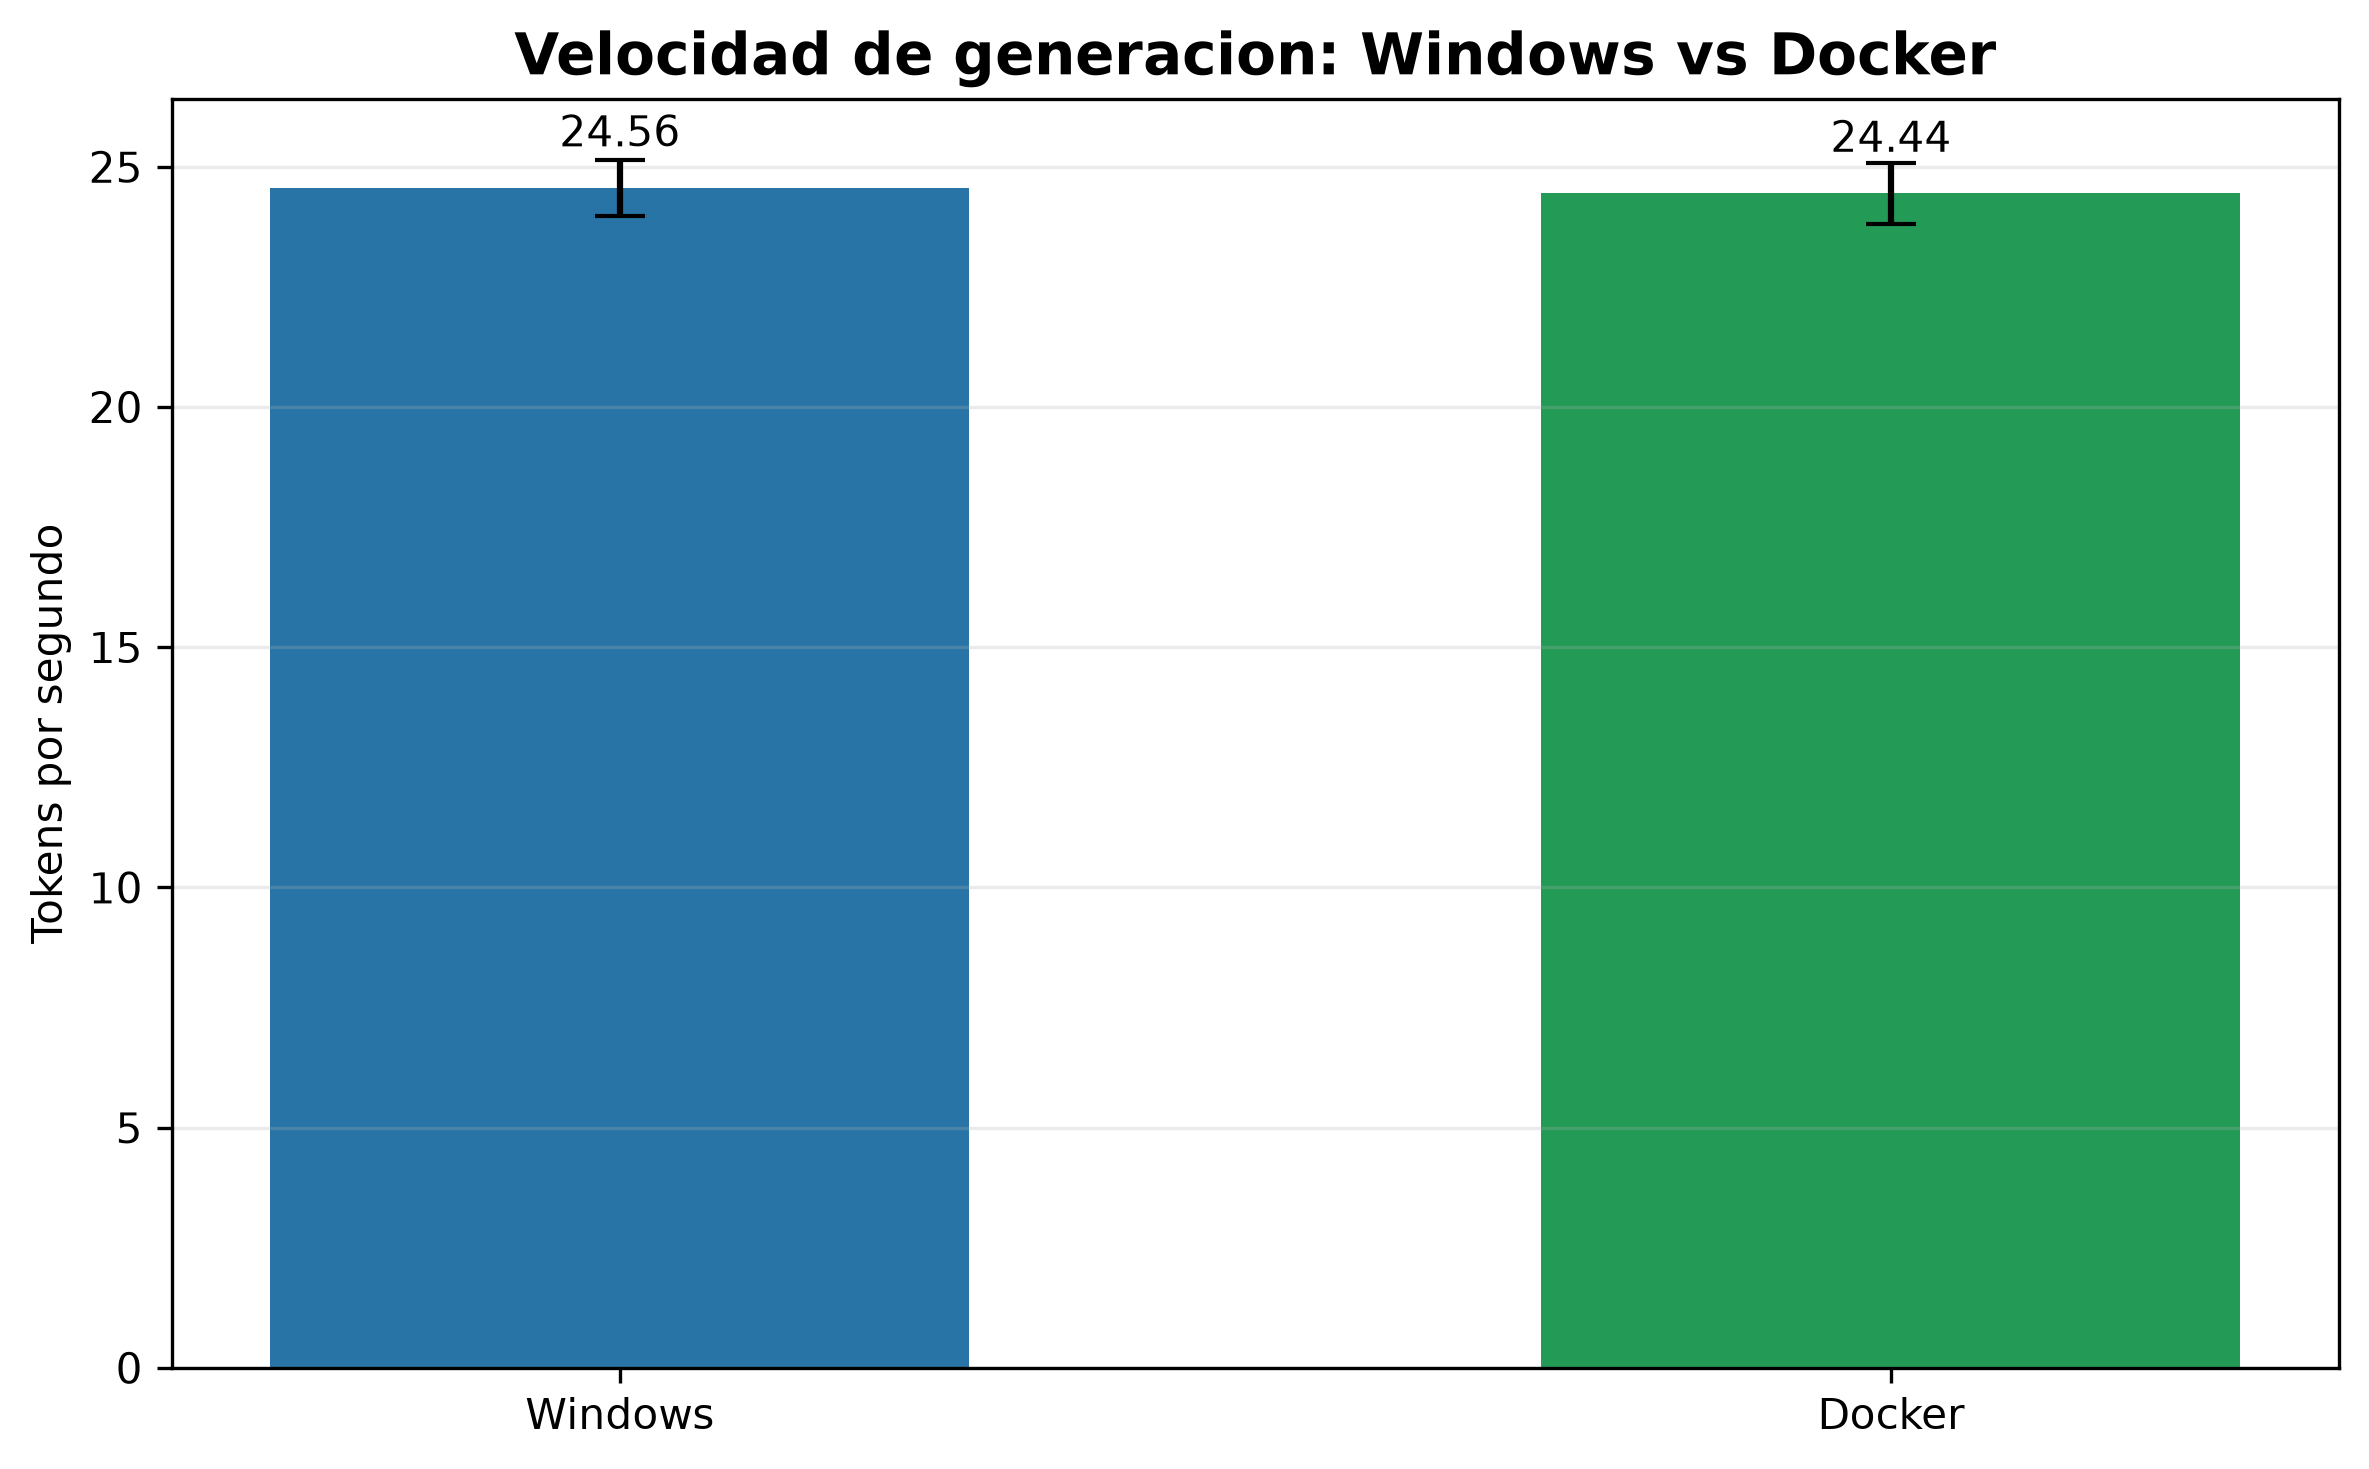
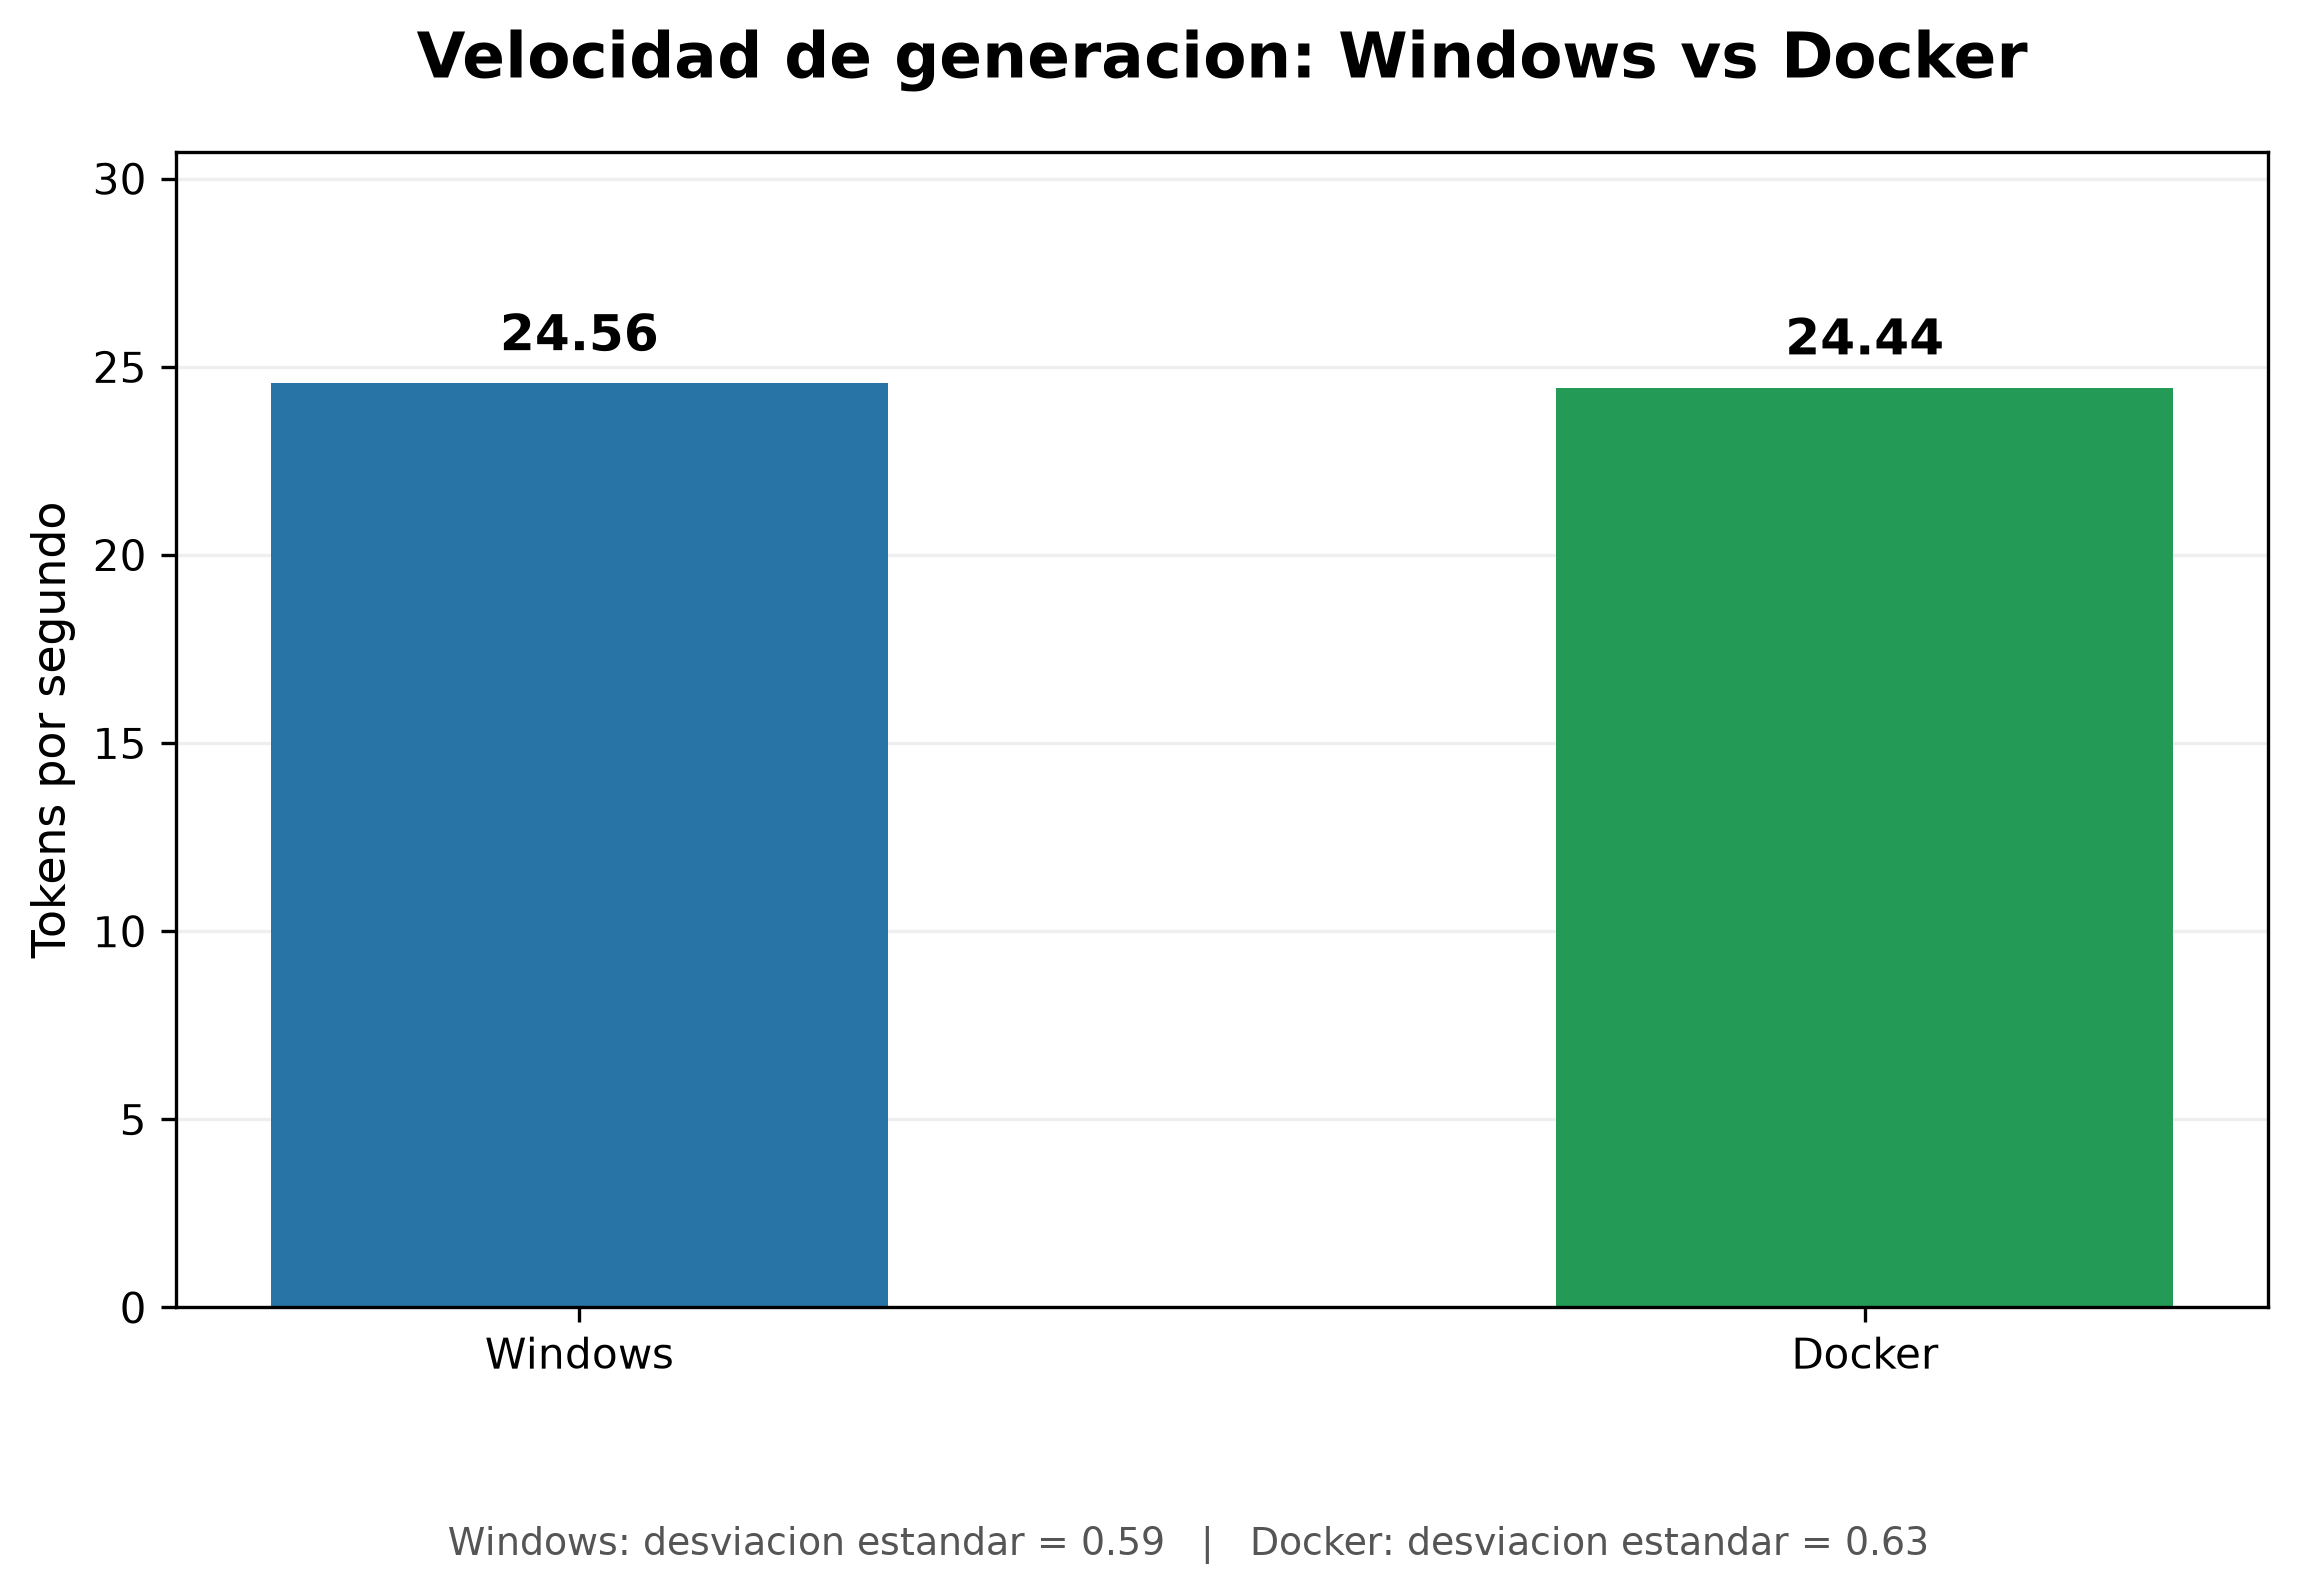
Mejorar presentacion de graficos comparativos

Changed region(s): [[0.0, 0.0, 0.9887, 0.9803]]

diff --git a/src/graficos.py b/src/graficos.py
@@ -142,7 +142,8 @@ for configuracion, archivos in archivos_pruebas.items():
     print(configuracion, ":", len(respuestas), "respuestas")
 
 
-# Funcion para crear graficos comparativos.
+
+# Funcion para crear graficos comparativos mas claros.
 def grafico_comparativo(campo, titulo, unidad, archivo_salida):
     configuraciones = ["Windows", "Docker"]
 
@@ -158,36 +159,59 @@ def grafico_comparativo(campo, titulo, unidad, archivo_salida):
         promedios.append(statistics.mean(valores))
         desviaciones.append(statistics.stdev(valores))
 
-    plt.figure(figsize=(8, 5))
+    fig, ax = plt.subplots(figsize=(9, 5.5))
 
-    barras = plt.bar(
+    colores = ["#2874A6", "#239B56"]
+
+    barras = ax.bar(
         configuraciones,
         promedios,
-        yerr=desviaciones,
-        capsize=6,
-        color=["#2874A6", "#239B56"],
-        width=0.55
+        color=colores,
+        width=0.48
     )
 
-    plt.title(titulo, fontsize=14, fontweight="bold")
-    plt.ylabel(unidad)
-    plt.grid(axis="y", alpha=0.25)
+    ax.set_title(titulo, fontsize=15, fontweight="bold", pad=18)
+    ax.set_ylabel(unidad, fontsize=11)
+    ax.grid(axis="y", alpha=0.2)
+    ax.set_axisbelow(True)
 
+    # Mostramos el promedio encima de cada barra.
     for barra, promedio in zip(barras, promedios):
-        plt.annotate(
+        ax.annotate(
             f"{promedio:.2f}",
-            (barra.get_x() + barra.get_width() / 2, promedio),
-            xytext=(0, 10),
+            xy=(
+                barra.get_x() + barra.get_width() / 2,
+                promedio
+            ),
+            xytext=(0, 8),
             textcoords="offset points",
-            ha="center"
+            ha="center",
+            fontsize=12,
+            fontweight="bold"
         )
 
-    plt.ylim(bottom=0)
-    plt.tight_layout()
+    # Dejamos espacio para los valores superiores.
+    ax.set_ylim(0, max(promedios) * 1.25)
+
+    # La desviacion estandar se muestra debajo del grafico.
+    informacion = (
+        f"Windows: desviacion estandar = {desviaciones[0]:.2f}   |   "
+        f"Docker: desviacion estandar = {desviaciones[1]:.2f}"
+    )
+
+    fig.text(
+        0.5, 0.02,
+        informacion,
+        ha="center",
+        fontsize=9,
+        color="#555555"
+    )
+
+    fig.subplots_adjust(bottom=0.17, top=0.87)
 
     ruta = CARPETA_GRAFICOS / archivo_salida
-    plt.savefig(ruta, dpi=300, bbox_inches="tight")
-    plt.close()
+    fig.savefig(ruta, dpi=300, bbox_inches="tight")
+    plt.close(fig)
 
     print("Grafico comparativo guardado:", ruta)
 
